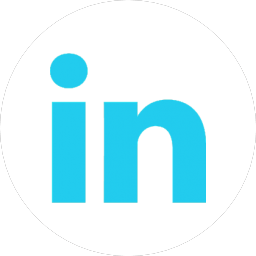
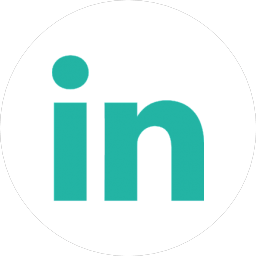
changed few deisgn elements

Changed region(s): [[0.375, 0.375, 0.8125, 0.8125], [0.1875, 0.1875, 0.3438, 0.8125]]

diff --git a/css/style.css b/css/style.css
@@ -1,21 +1,22 @@
 body {
-    background-color: #2CE;
+    background-color: #23b4a4;
     color: white;
 }
 
 ::selection {
-    background-color: #2C3E50;
-    color: #2CE;
+    background-color: #000000;
+    color: #23b4a4;
 }
 
 p {
     font-family: 'Oxygen', sans-serif;
-    color: #2CE;
+    color: #23b4a4;
     font-size: 40px;
     font-weight: 100;
     text-align: justify;
     padding-left: 250px;
     padding-right: 250px;
+    opacity: ;
 }
 
 p#scroll {
@@ -38,7 +39,9 @@ h1 {
     font-size: 90px;
     font-weight: 200;
     text-align: center;
+    
     -webkit-animation: fadein 2s;
+    // -webkit-animation-timing-function: ease-in;
 }
 
 h2 {
@@ -53,7 +56,7 @@ h3 {
     font-size: 60px;
     font-weight: 200;
     text-align: center;
-    color: #2CE;
+    color: #23b4a4;
 }
 
 h4 {
@@ -62,6 +65,10 @@ h4 {
     font-weight: 400;
     text-align: center;
     color: #fff;
+    opacity: ;
+    
+    -webkit-animation: fadein 2s;
+    // -webkit-animation-timing-function: ease-in;
 }
 
 .landing {
@@ -81,7 +88,7 @@ section#navigation a {
     padding-bottom: 5px;
     padding-left: 30px;
     padding-right: 30px;
-    opacity: 1;
+    opacity: 0.9;
     
     -webkit-animation: slideout 1.5s;
     -webkit-animation-timing-function: ease-in;
@@ -94,7 +101,7 @@ section#navigation a {
         padding-left: 5px; 
     }
     to {
-        opacity: 1;
+        opacity: 0.85;
         padding-right: 30px; 
         padding-left: 30px; 
     }

diff --git a/index.html b/index.html
@@ -22,7 +22,7 @@
         <link href='http://fonts.googleapis.com/css?family=Oxygen:400,300,700' rel='stylesheet' type='text/css'>
 
         <!--Icons-->
-        <link rel="icon" type="image/png" href="img/favicon2.ico"></link>
+        <link rel="icon" type="image/png" href="img/favicon.ico"></link>
 
     </head>
 
@@ -34,9 +34,9 @@
         <div class="landing">
             <section id="navigation">
                 <a id="demo01" href="#animatedModal">
-                    <img src="img/cool_head.png" width="170" height="170" 
-                         onMouseOver="this.src='img/aboutme.png'"
-                         onMouseOut="this.src='img/cool_head.png'"/>
+                    <img src="img/person.png" width="170" height="170" 
+                         onMouseOver="this.src='img/bio.png'"
+                         onMouseOut="this.src='img/person.png'"/>
                     <!--https://www.google.com/search?q=pransu+dash-->
                 </a>
                 <a href="https://github.com/pransudash?tab=repositories" target="_blank">
